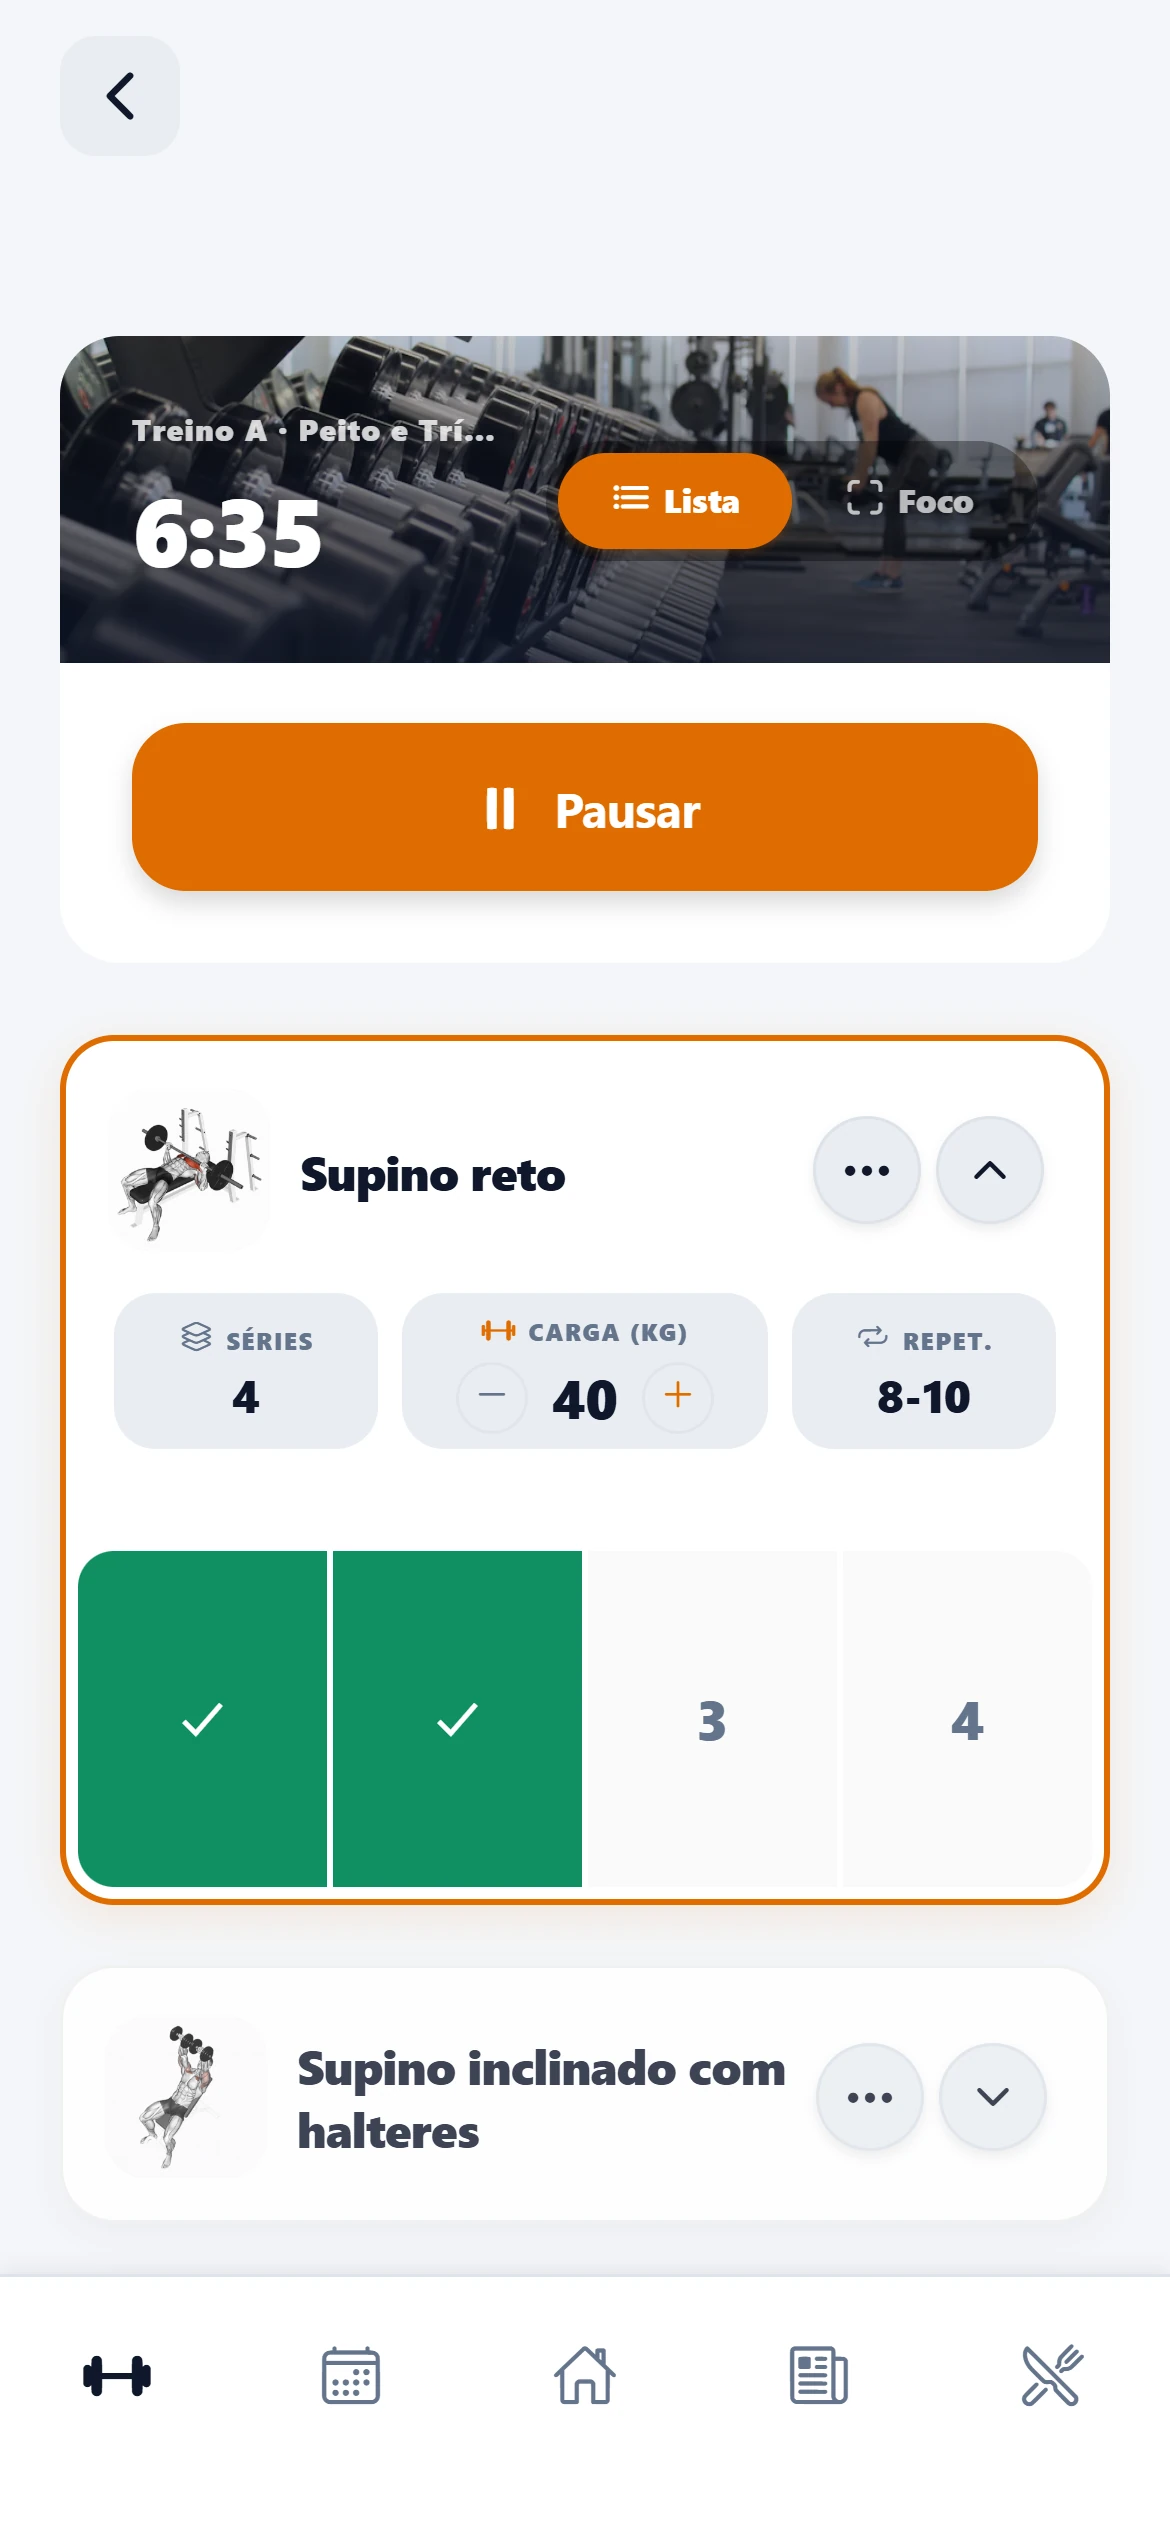
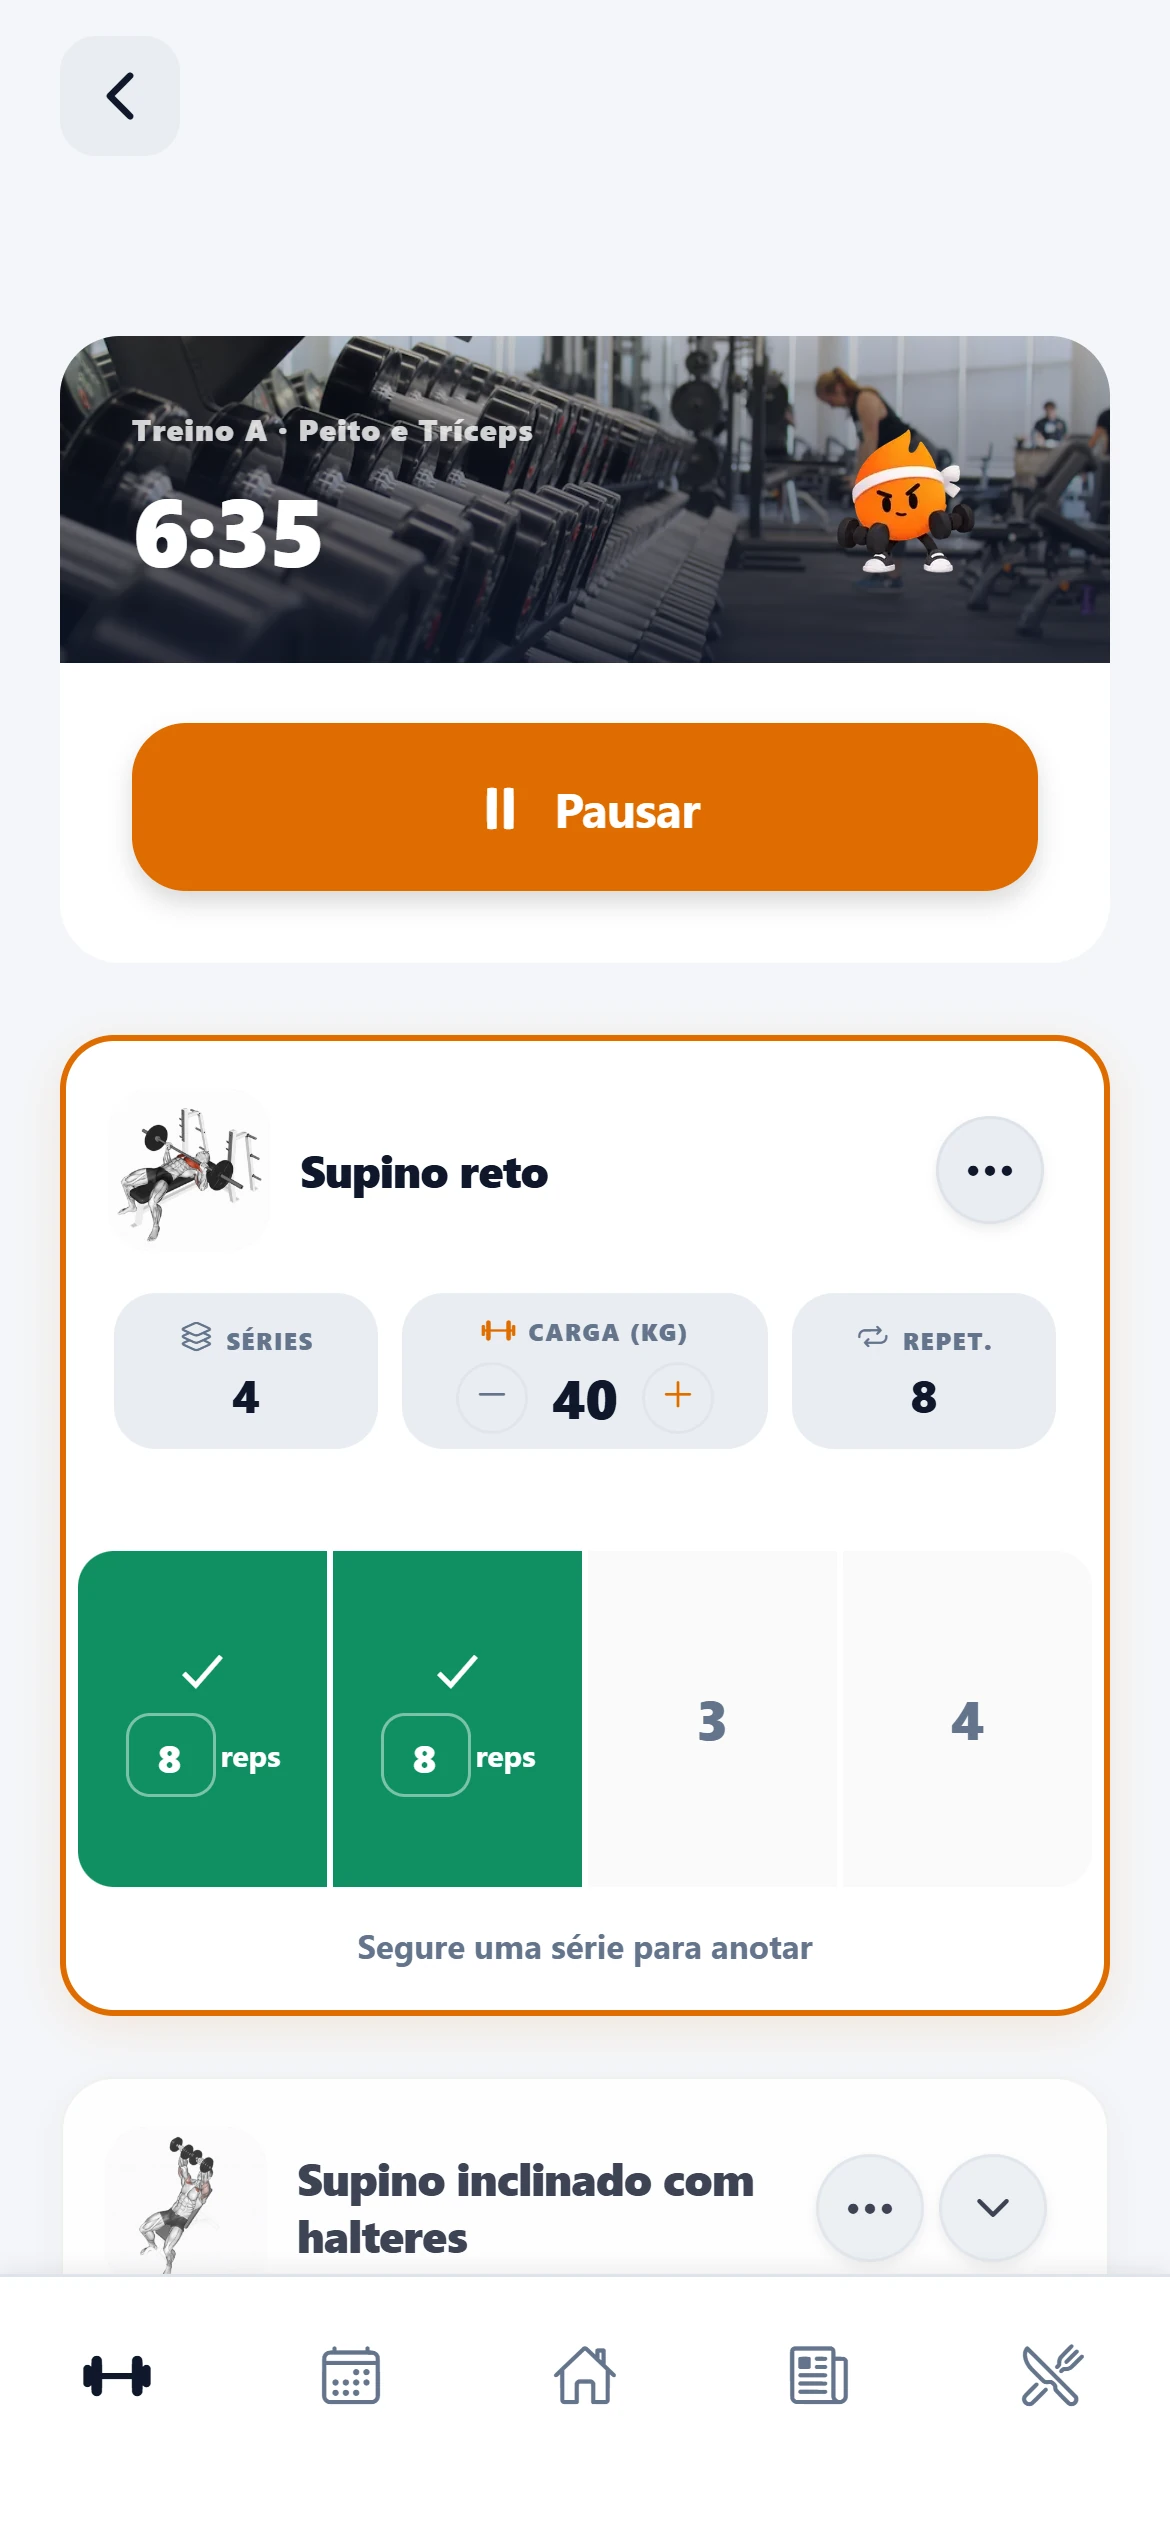
Atualiza as telas do app e ajusta o painel e o topo no celular
- Novas capturas do app com o mascote animado e dados de exemplo
- Recortes do painel no celular alinhados às bordas dos cartões
- Lightbox sem barra de rolagem; no celular o painel abre inteiro, em pé
- Filtros do Planejamento em grade 2x2 no celular e no tablet
- Topo da página inicial mais compacto, com o mascote à vista
- A assinatura libera relatórios gerados com IA (não treinos)

diff --git a/src/components/home/HeroInicio.tsx b/src/components/home/HeroInicio.tsx
@@ -13,7 +13,7 @@ import MascoteAnimado from "../MascoteAnimado";
  */
 export default function HeroInicio() {
   return (
-    <section className="relative overflow-hidden pb-12 pt-28 sm:pb-28 sm:pt-40 lg:min-h-[100svh] lg:pb-24">
+    <section className="relative overflow-hidden pb-12 pt-24 sm:pb-28 sm:pt-40 lg:min-h-[100svh] lg:pb-24">
       {/* luz âmbar atrás da composição, como o brilho de LED da splash */}
       <div
         aria-hidden
@@ -21,7 +21,7 @@ export default function HeroInicio() {
       />
 
       <Container className="relative">
-        <div className="grid items-center gap-14 lg:grid-cols-[minmax(0,0.8fr)_minmax(0,1.2fr)] lg:gap-4">
+        <div className="grid items-center gap-8 sm:gap-14 lg:grid-cols-[minmax(0,0.8fr)_minmax(0,1.2fr)] lg:gap-4">
           <Reveal direction="left" className="relative z-10 max-w-xl">
             {/* no celular o logo já está no cabeçalho, logo acima: aparece só a partir de 640 px */}
             <div className="hidden sm:block">
@@ -30,11 +30,11 @@ export default function HeroInicio() {
             <h1 className="sm:mt-7 text-[2.35rem] font-extrabold leading-[1.02] tracking-tight text-ink text-balance sm:text-5xl lg:text-[3.5rem]">
               Treino, dieta e evolução <span className="text-accent">no mesmo app</span>.
             </h1>
-            <p className="mt-6 max-w-lg text-lg leading-relaxed text-ink-muted">
+            <p className="mt-5 max-w-lg text-base leading-relaxed text-ink-muted sm:mt-6 sm:text-lg">
               O ARKO organiza os seus treinos, registra o que você come e mostra a sua evolução semana a semana: carga,
               frequência e os músculos que você mais treinou.
             </p>
-            <div className="mt-9 flex flex-col gap-3 sm:flex-row sm:items-center">
+            <div className="mt-7 flex flex-col gap-3 sm:mt-9 sm:flex-row sm:items-center">
               <a
                 href="#escolha"
                 className="btn-accent group inline-flex items-center justify-center gap-2 rounded-xl px-7 py-3.5 text-sm font-semibold"
@@ -56,8 +56,8 @@ export default function HeroInicio() {
           <Reveal delay={150} direction="right" className="relative">
             <div className="relative mx-auto max-w-[680px] pb-[14%] pl-[24%] sm:pb-[10%] sm:pl-[10%] lg:mr-[-22%] lg:max-w-none">
               <Drift y={-24}>
-                {/* no celular, recorte com os números e a atividade dos alunos */}
-                <Browser tela="dashboard" eager recorte={{ x: 0.18, y: 0.1, w: 0.62, h: 0.6 }} />
+                {/* no celular, recorte com a atividade dos alunos (telas.ts) */}
+                <Browser tela="dashboard" eager />
               </Drift>
 
               <Drift y={36} className="absolute bottom-0 left-0 w-[34%] max-w-[230px] sm:w-[22%]">
@@ -65,7 +65,7 @@ export default function HeroInicio() {
               </Drift>
 
               {/* o mascote de óculos, encostado no canto do painel, já recebe quem chega */}
-              <Drift y={-40} className="absolute -bottom-[6%] right-0 z-10 w-[26%] max-w-[200px] sm:right-[2%] sm:w-[20%] lg:right-[24%] lg:w-[15%]">
+              <Drift y={-40} className="absolute bottom-0 right-0 sm:-bottom-[6%] z-10 w-[26%] max-w-[200px] sm:right-[2%] sm:w-[20%] lg:right-[24%] lg:w-[15%]">
                 <MascoteAnimado
                   video="/brand/mascote/oculos-brilho.webm"
                   poster="/brand/mascote/oculos-brilho.webp"

diff --git a/src/components/pro/Planejamento.tsx b/src/components/pro/Planejamento.tsx
@@ -48,9 +48,9 @@ export default function Planejamento() {
         />
 
         <div className="mt-10 sm:mt-14 grid gap-6 lg:grid-cols-[300px_minmax(0,1fr)] lg:gap-10 xl:grid-cols-[340px_minmax(0,1fr)]">
-          {/* índice: no celular vira uma fileira rolável */}
+          {/* índice: no celular e no tablet vira uma grade 2 x 2, com tudo à vista */}
           <Reveal direction="left" className="min-w-0">
-            <div role="tablist" aria-label="Partes do planejamento" className="sem-barra -mx-6 flex gap-2 overflow-x-auto px-6 pb-1 lg:mx-0 lg:flex-col lg:gap-1 lg:overflow-visible lg:px-0">
+            <div role="tablist" aria-label="Partes do planejamento" className="grid grid-cols-2 gap-2 lg:flex lg:flex-col lg:gap-1">
               {ETAPAS.map((e, i) => {
                 const on = ativa === i;
                 return (
@@ -63,8 +63,8 @@ export default function Planejamento() {
                     onMouseEnter={() => setAtiva(i)}
                     onFocus={() => setAtiva(i)}
                     onClick={() => setAtiva(i)}
-                    className={`relative shrink-0 cursor-pointer rounded-2xl px-5 py-3 text-left transition-colors duration-300 ease-out focus-visible:outline-none focus-visible:ring-2 focus-visible:ring-accent lg:py-5 lg:pl-7 ${
-                      on ? "bg-surface-2" : "hover:bg-surface-2/60"
+                    className={`relative min-w-0 cursor-pointer rounded-xl border px-3.5 py-3 text-left transition-colors duration-300 ease-out focus-visible:outline-none focus-visible:ring-2 focus-visible:ring-accent sm:px-5 lg:rounded-2xl lg:border-0 lg:py-5 lg:pl-7 ${
+                      on ? "border-accent/60 bg-surface-2" : "border-line/60 hover:bg-surface-2/60"
                     }`}
                   >
                     <span
@@ -72,11 +72,11 @@ export default function Planejamento() {
                         on ? "scale-y-100" : "scale-y-0"
                       }`}
                     />
-                    <span className="flex items-baseline gap-3">
+                    <span className="flex items-baseline gap-2 sm:gap-3">
                       <span className={`font-data text-xs font-semibold ${on ? "text-accent" : "text-ink-muted"}`}>
                         0{i + 1}
                       </span>
-                      <span className={`whitespace-nowrap text-base font-semibold transition-colors ${on ? "text-ink" : "text-ink-muted"}`}>
+                      <span className={`text-sm font-semibold leading-snug transition-colors sm:text-base lg:whitespace-nowrap ${on ? "text-ink" : "text-ink-muted"}`}>
                         {e.titulo}
                       </span>
                     </span>

diff --git a/src/components/devices/telas.ts b/src/components/devices/telas.ts
@@ -29,14 +29,14 @@ export type TelaApp = keyof typeof TELAS_APP;
 // No celular, a tela inteira do painel (16:9, com menu lateral) fica ilegível; o recorte mostra só o
 // conteúdo que importa, maior. A partir de 640 px aparece a tela inteira.
 export const TELAS_PAINEL = {
-  dashboard: { rota: "dashboard", mobile: { x: 0.18, y: 0.1, w: 0.42, h: 0.87 }, alt: "Dashboard do painel ARKO com total de alunos, alunos ativos, treinos na semana e vagas" },
+  dashboard: { rota: "dashboard", mobile: { x: 0.18, y: 0.415, w: 0.405, h: 0.55 }, alt: "Dashboard do painel ARKO com total de alunos, alunos ativos, treinos na semana e vagas" },
   alunos: { rota: "alunos", mobile: { x: 0.18, y: 0.06, w: 0.8, h: 0.87 }, alt: "Lista de alunos com o código de convite no painel ARKO" },
-  treinos: { rota: "treinos", mobile: { x: 0.18, y: 0.1, w: 0.52, h: 0.9 }, alt: "Gestão de treinos de uma aluna no painel ARKO" },
+  treinos: { rota: "treinos", mobile: { x: 0.18, y: 0.1, w: 0.81, h: 0.88 }, alt: "Gestão de treinos de uma aluna no painel ARKO" },
   alimentacao: { rota: "alimentacao", mobile: { x: 0.45, y: 0.1, w: 0.53, h: 0.62 }, alt: "Plano alimentar com calorias, macros, água e templates de dieta no painel ARKO" },
-  medidas: { rota: "medidas", mobile: { x: 0.18, y: 0.1, w: 0.55, h: 0.9 }, alt: "Medidas corporais e detalhes da última avaliação no painel ARKO" },
-  chat: { rota: "chat", mobile: { x: 0.45, y: 0.1, w: 0.53, h: 0.9 }, alt: "Chat do painel ARKO com um treino concluído enviado pela aluna" },
-  desafios: { rota: "desafios", mobile: { x: 0.18, y: 0.1, w: 0.54, h: 0.66 }, alt: "Desafios em grupo criados pelo profissional no painel ARKO" },
-  modelos: { rota: "modelos", mobile: { x: 0.18, y: 0.18, w: 0.52, h: 0.66 }, alt: "Modelos de treino reutilizáveis no painel ARKO" },
+  medidas: { rota: "medidas", mobile: { x: 0.18, y: 0.47, w: 0.405, h: 0.5 }, alt: "Medidas corporais e detalhes da última avaliação no painel ARKO" },
+  chat: { rota: "chat", mobile: { x: 0.405, y: 0.1, w: 0.57, h: 0.87 }, alt: "Chat do painel ARKO com um treino concluído enviado pela aluna" },
+  desafios: { rota: "desafios", mobile: { x: 0.18, y: 0.1, w: 0.53, h: 0.7 }, alt: "Desafios em grupo criados pelo profissional no painel ARKO" },
+  modelos: { rota: "modelos", mobile: { x: 0.18, y: 0.18, w: 0.52, h: 0.7 }, alt: "Modelos de treino reutilizáveis no painel ARKO" },
 } as const;
 
 export type TelaPainel = keyof typeof TELAS_PAINEL;

diff --git a/src/components/devices/Browser.tsx b/src/components/devices/Browser.tsx
@@ -125,16 +125,10 @@ export default function Browser({
       label="Ampliar tela do painel"
       // ampliado: o maior possível sem passar da altura da tela (16:9 + barra de endereço)
       ampliado={
-        // No celular, a tela inteira em 94vw ficaria ilegível: ela abre em 900 px de largura e
-        // rola para o lado. A partir de 640 px, cabe inteira na tela.
-        <div>
-          <p className="sticky left-0 mb-3 w-[min(100vw-2rem,360px)] text-center text-xs text-white/70 sm:hidden">
-            Arraste para o lado para ver a tela inteira
-          </p>
-          <Janela rota={rota} className="w-[900px] sm:w-[min(94vw,1500px,calc((88vh_-_48px)*1.7778))]">
-            {conteudo}
-          </Janela>
-        </div>
+        // Em pé e inteira, na maior largura que cabe na tela (no celular, a largura toda).
+        <Janela rota={rota} className="w-[min(100vw_-_2rem,1500px,calc((88vh_-_48px)*1.7778))] sm:w-[min(94vw,1500px,calc((88vh_-_48px)*1.7778))]">
+          {conteudo}
+        </Janela>
       }
     >
       {janela}

diff --git a/src/components/app/Treinos.tsx b/src/components/app/Treinos.tsx
@@ -11,7 +11,7 @@ import Titulo from "../ui/Titulo";
  * (o jeito que o dossiê usa a mono para dados de treino), em vez de cartões com ícone.
  */
 const FICHA = [
-  { rotulo: "Montar", texto: "Do zero (musculação, cardio ou alongamento) ou gerado com IA em poucos toques." },
+  { rotulo: "Montar", texto: "Do zero, com os exercícios que você escolher: musculação, cardio ou alongamento." },
   { rotulo: "Executar", texto: "Série por série, com cronômetro de descanso. No cardio, o percurso pelo GPS." },
   { rotulo: "Fechar", texto: "Ao terminar, guarde fotos do treino e publique no feed, se quiser." },
 ];

diff --git a/src/components/Expandable.tsx b/src/components/Expandable.tsx
@@ -100,7 +100,7 @@ export default function Expandable({
               </button>
               <div
                 data-lenis-prevent
-                className="max-h-[88vh] max-w-full overflow-auto overscroll-contain sm:max-w-[92vw]"
+                className="sem-barra max-h-[88vh] max-w-full overflow-auto overscroll-contain sm:max-w-[94vw]"
                 onClick={(e) => e.stopPropagation()}
                 style={{
                   opacity: visivel ? 1 : 0,

diff --git a/src/components/app/SozinhoOuAcompanhado.tsx b/src/components/app/SozinhoOuAcompanhado.tsx
@@ -14,7 +14,7 @@ import { DIAS_TESTE_GRATIS, PLANOS_INDEPENDENTE, brl } from "@/lib/precos";
 const LIBERA = [
   "Gráficos de evolução e carga",
   "Calendário e sequência",
-  "Treinos gerados com IA",
+  "Relatórios gerados com IA",
   "Treinos sem limite",
   "Leitor de código de barras",
   "Ranking de sequência",
